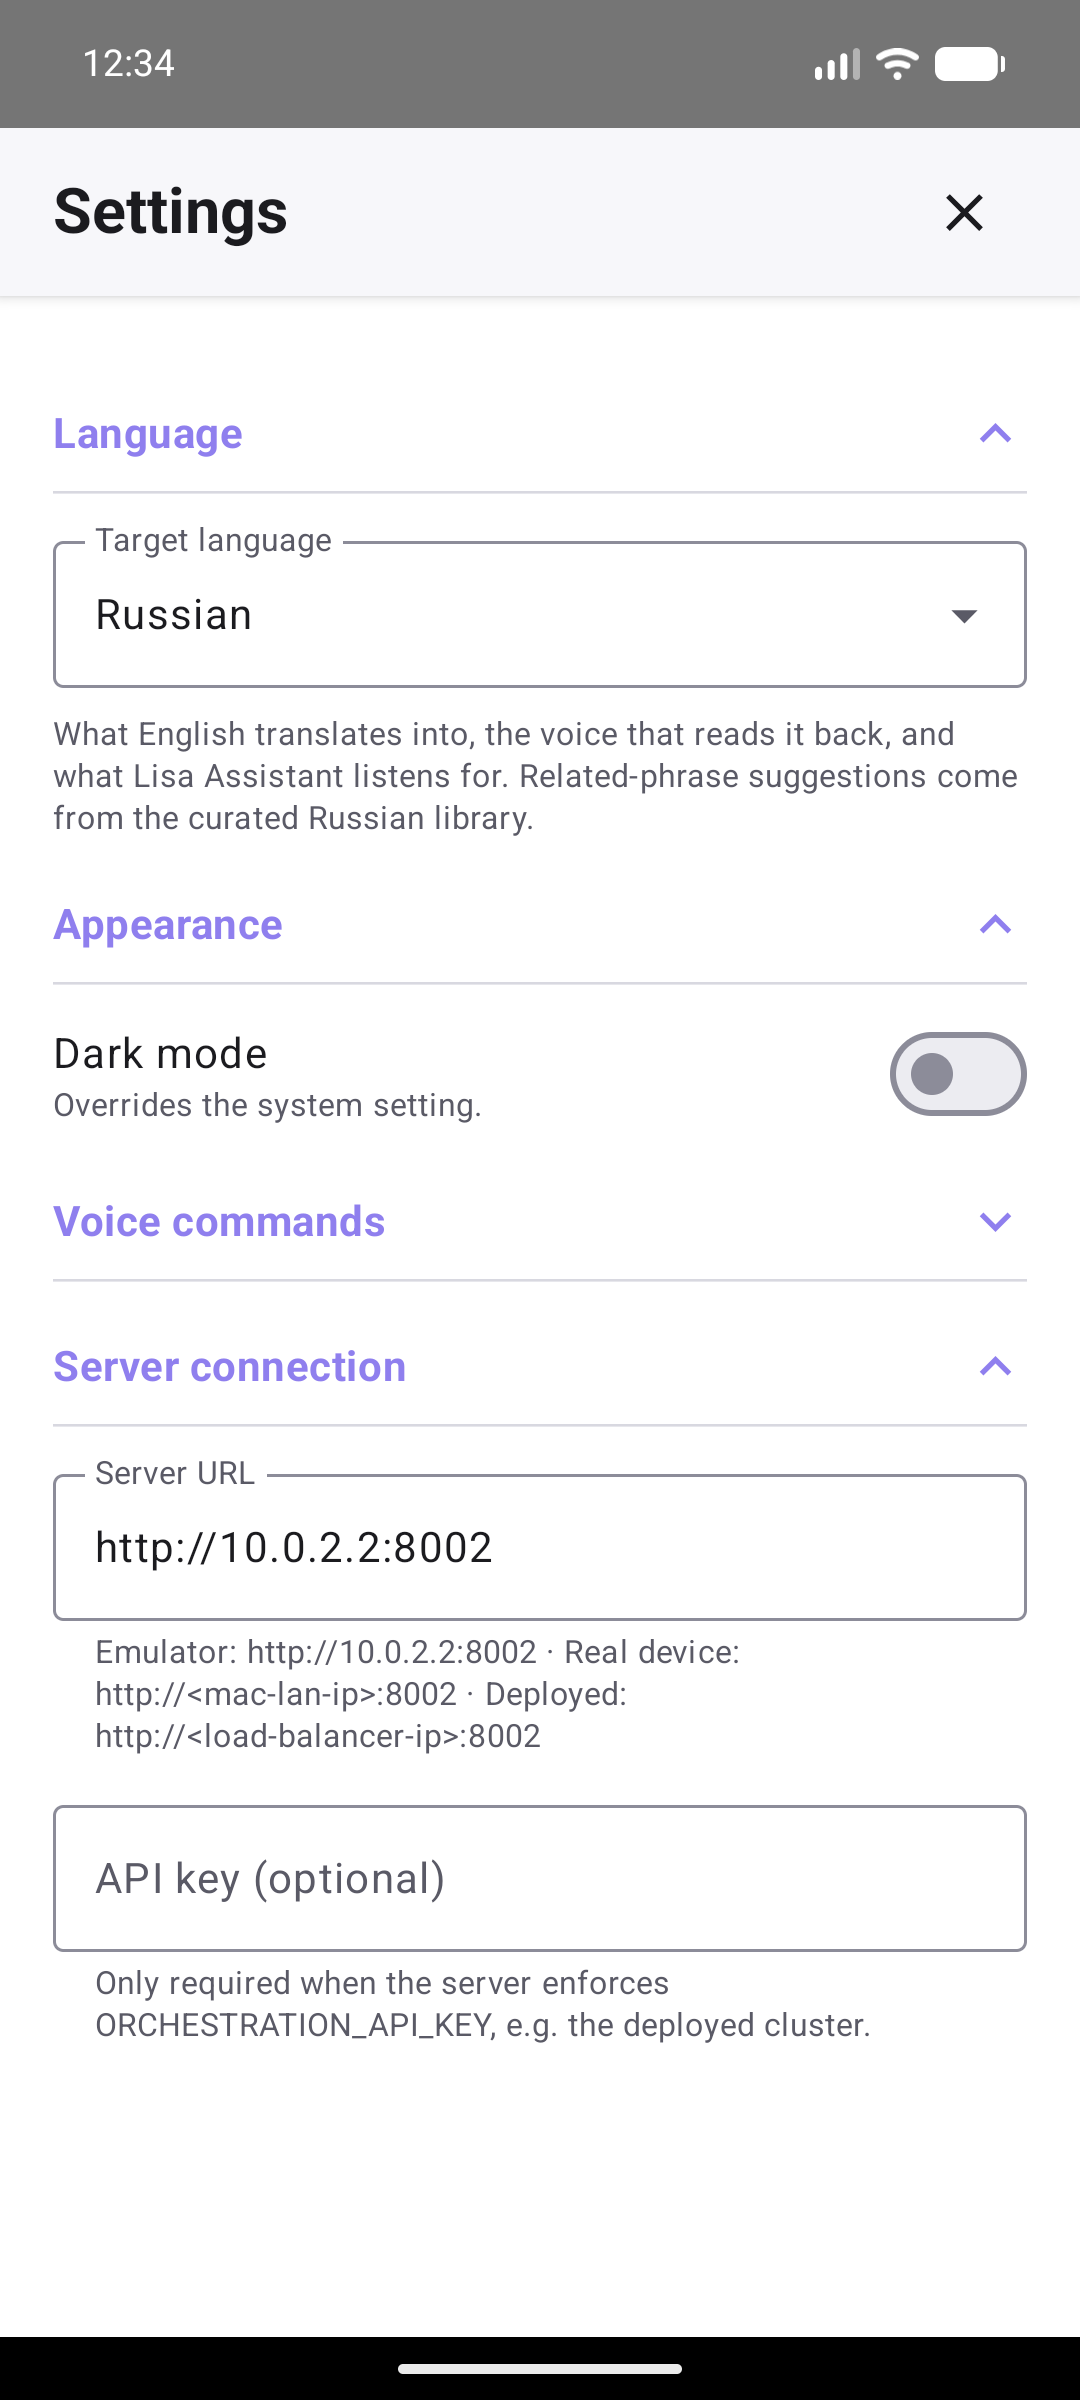
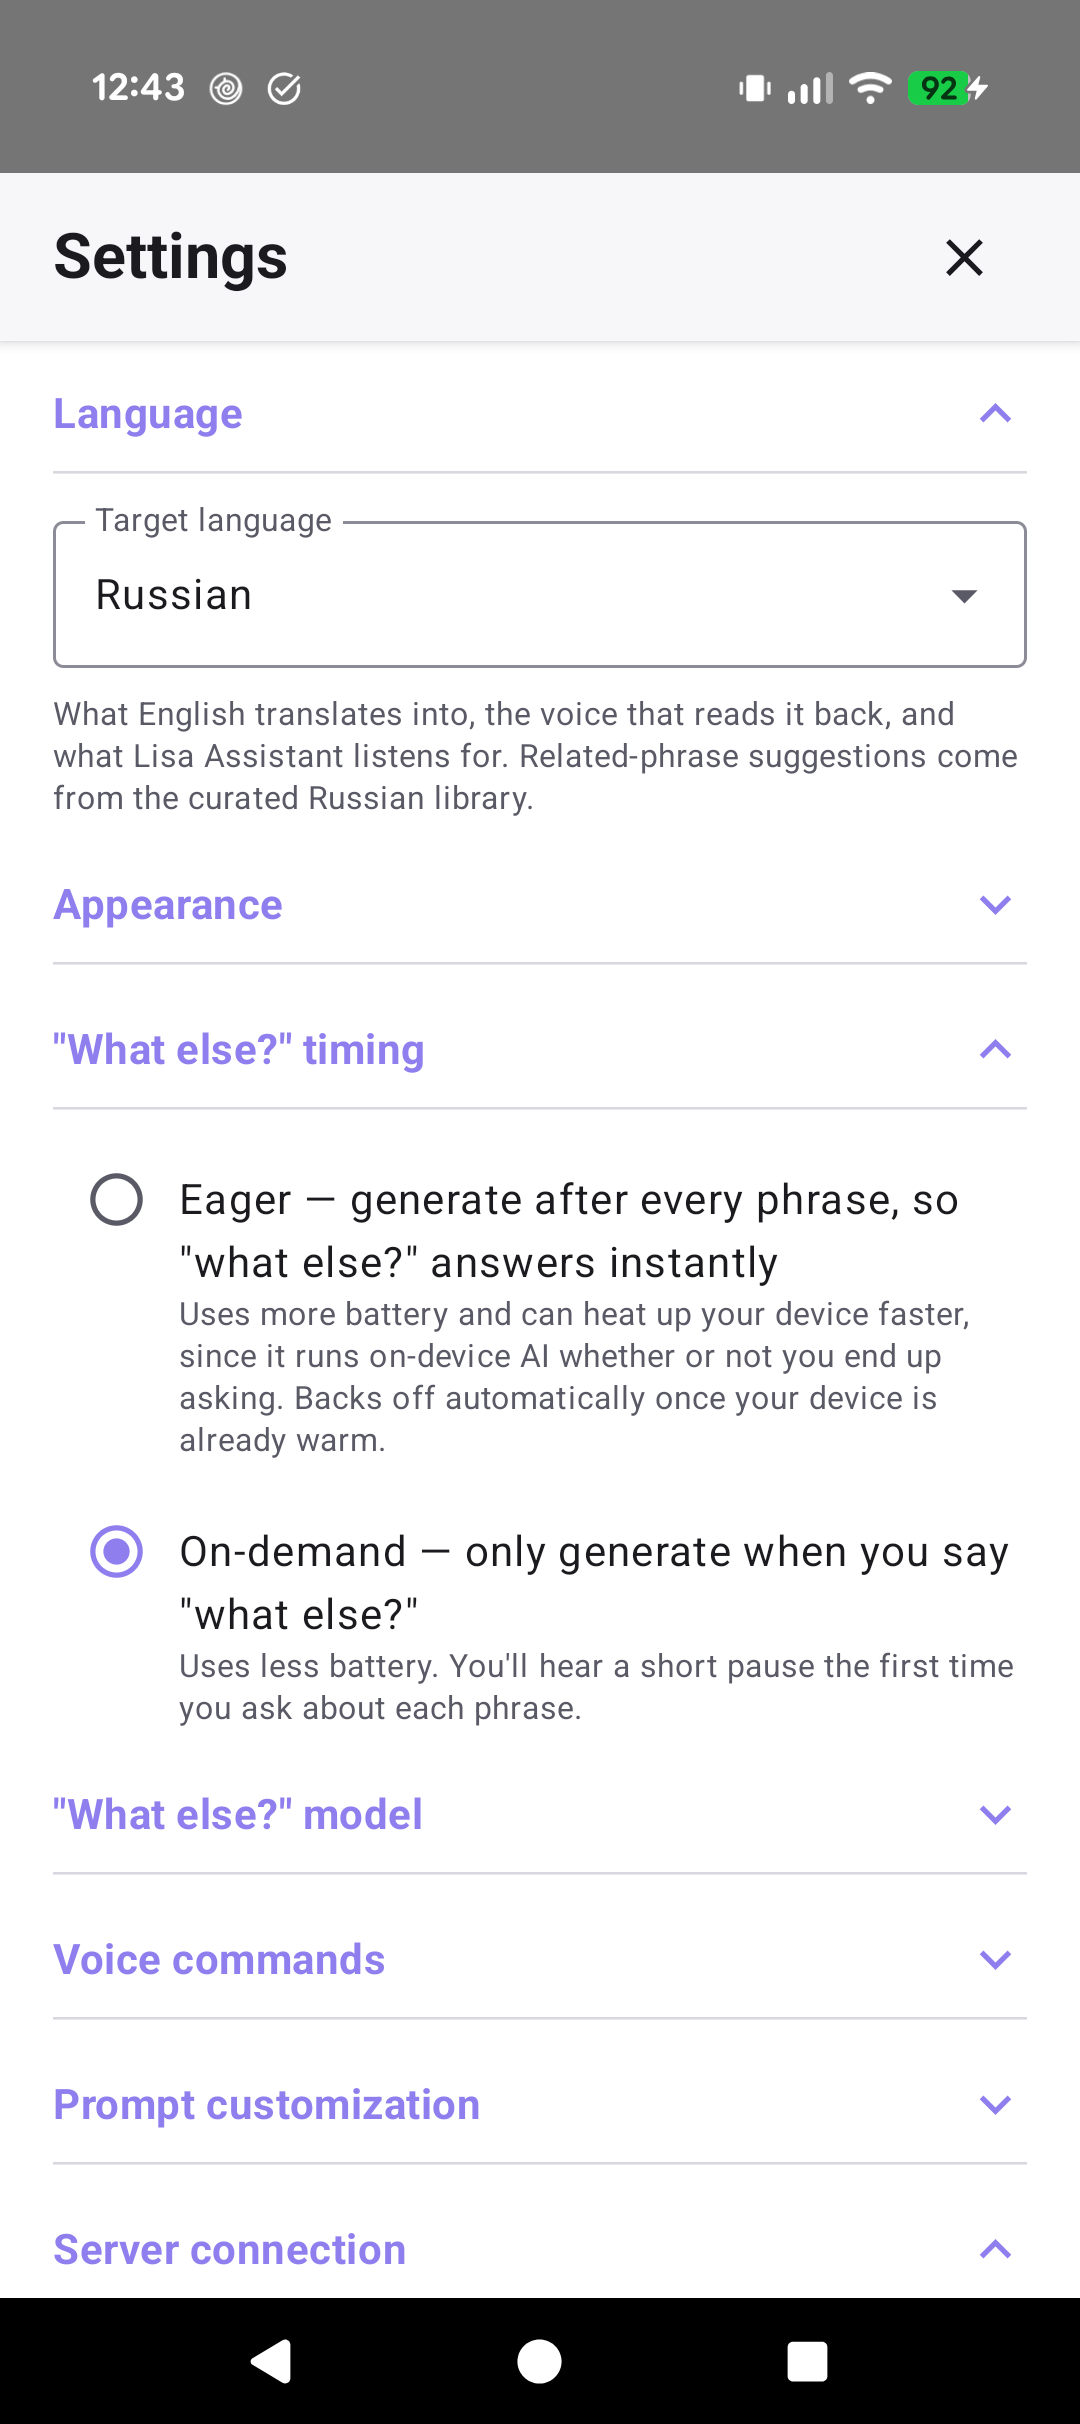
docs: swap in higher-fidelity real-device screenshots
Replace the emulator captures with real-device screenshots covering the
onboarding popup, home screen, all three voice-command results (how to
say / what does that mean / what else), quick tips, and settings, laid
out as a small gallery in both READMEs.

diff --git a/android/README.md b/android/README.md
@@ -12,9 +12,17 @@ the child-perception pipeline. One text box (type or dictate):
 Which mode you get is auto-detected on the backend (presence of Cyrillic
 characters) — no mode toggle needed in the app.
 
-| First launch | Translate a phrase | Settings |
+| First launch | Home |
+|---|---|
+| ![Onboarding popup: "Hi, I'm Lisa" — pick who you're talking to](design/screenshots/onboarding_popup.png) | ![Home screen with the four voice-command shortcuts](design/screenshots/home_main.png) |
+
+| "How to say?" (translate) | "What does that mean?" (expand) | "What else?" (AI suggestions) |
 |---|---|---|
-| ![Intro popup](design/screenshots/intro_popup.png) | ![Main screen showing a translation result](design/screenshots/main_translation.png) | ![Settings screen](design/screenshots/settings.png) |
+| ![Как сказать? — "sleepy" translated to сонный](design/screenshots/how_to_say_result.png) | ![Что это значит? — meaning of a Russian phrase](design/screenshots/what_does_that_mean_result.png) | ![Что ещё? — AI-generated related phrases](design/screenshots/what_else_result.png) |
+
+| Quick tips | Settings |
+|---|---|
+| ![Quick tips panel expanded on the home screen](design/screenshots/home_quick_tips.png) | ![Settings screen: language, appearance, "what else?" timing, server connection](design/screenshots/settings.png) |
 
 This talks to `orchestration-service`'s `POST /assist` endpoint directly
 (port 8002), not `ingestion-service`'s `/event/voice` (that endpoint still

diff --git a/README.md b/README.md
@@ -8,9 +8,19 @@ A little bit more about me: I grew up speaking Russian at home, but I never form
 
 ## Screenshots
 
-| First launch | Translate a phrase | Settings |
+| First launch | Home |
+|---|---|
+| ![Onboarding popup: "Hi, I'm Lisa" — pick who you're talking to](android/design/screenshots/onboarding_popup.png) | ![Home screen with the four voice-command shortcuts](android/design/screenshots/home_main.png) |
+
+**The four voice commands in action** — say the command (or type/tap the equivalent), then the phrase:
+
+| "How to say?" (translate) | "What does that mean?" (expand) | "What else?" (AI suggestions) |
 |---|---|---|
-| ![Intro popup](android/design/screenshots/intro_popup.png) | ![Main screen showing a translation result](android/design/screenshots/main_translation.png) | ![Settings screen](android/design/screenshots/settings.png) |
+| ![Как сказать? — "sleepy" translated to сонный](android/design/screenshots/how_to_say_result.png) | ![Что это значит? — meaning of a Russian phrase](android/design/screenshots/what_does_that_mean_result.png) | ![Что ещё? — AI-generated related phrases](android/design/screenshots/what_else_result.png) |
+
+| Quick tips | Settings |
+|---|---|
+| ![Quick tips panel expanded on the home screen](android/design/screenshots/home_quick_tips.png) | ![Settings screen: language, appearance, "what else?" timing, server connection](android/design/screenshots/settings.png) |
 
 ## The technical part
 
